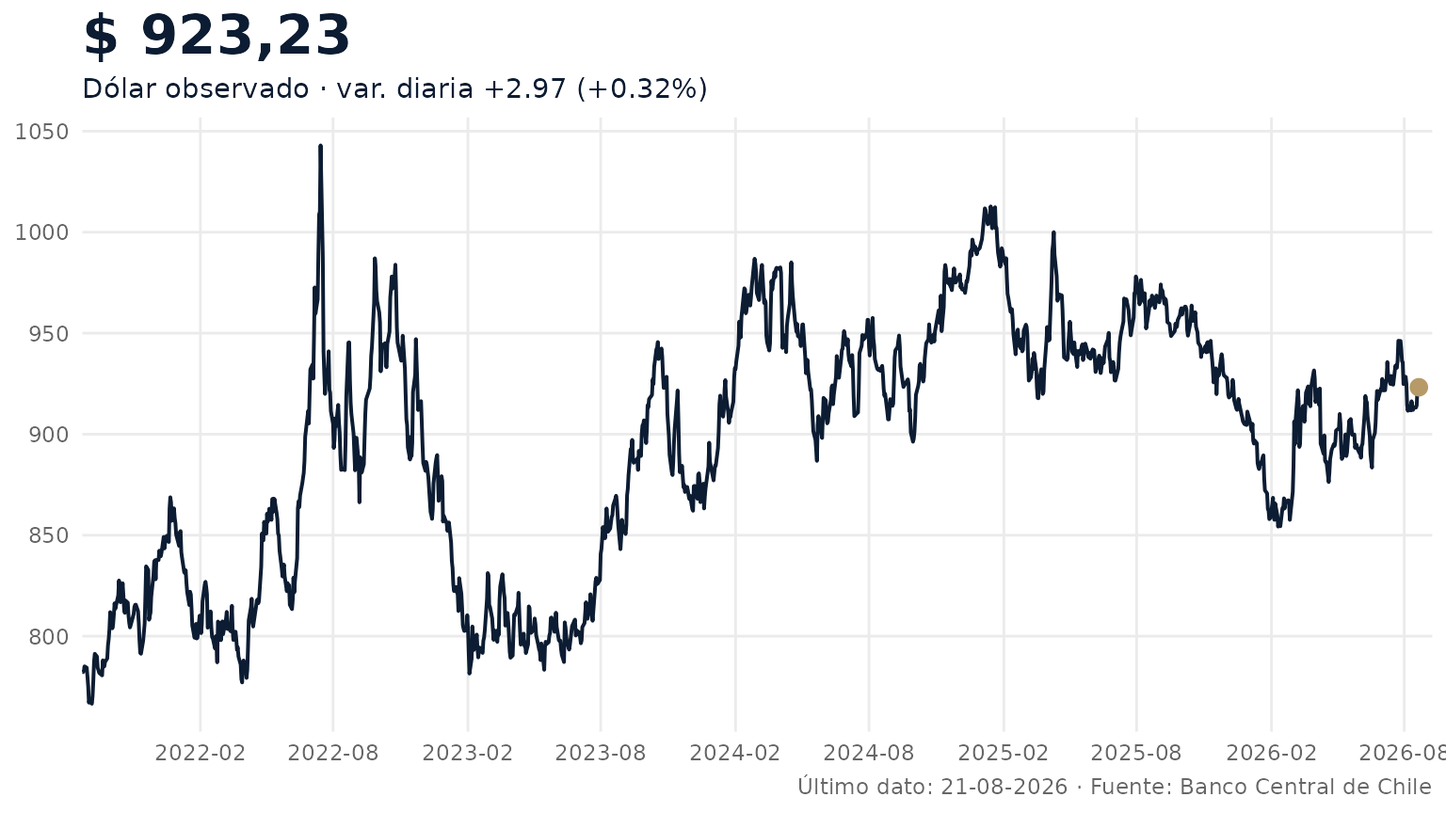
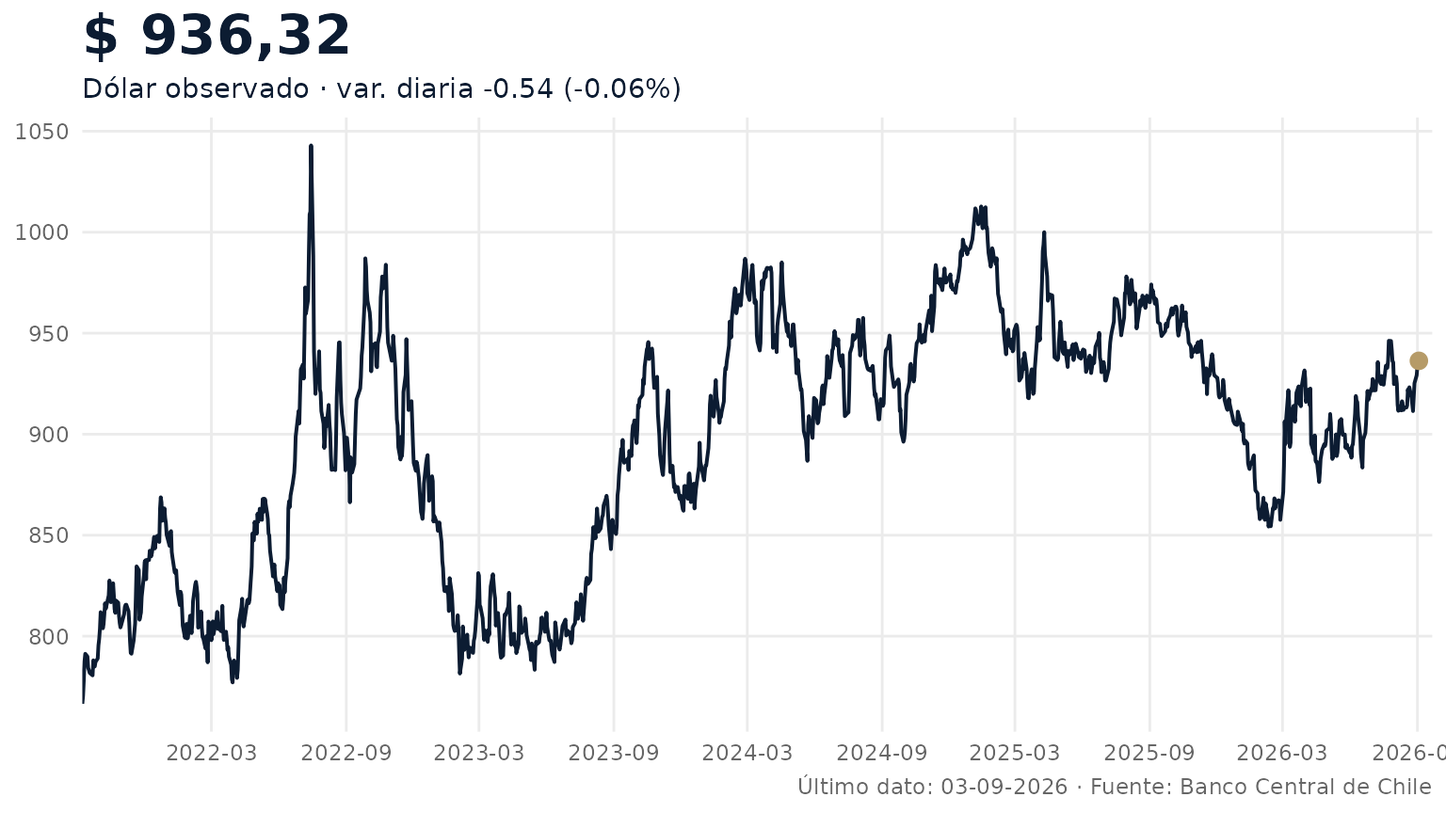
Built site for bcchr@0.1.0.9000: 7c481ce

diff --git a/news/index.html b/news/index.html
@@ -1,5 +1,10 @@
 <!DOCTYPE html>
-<!-- Generated by pkgdown: do not edit by hand --><html lang="es"><head><meta http-equiv="Content-Type" content="text/html; charset=UTF-8"><meta charset="utf-8"><meta http-equiv="X-UA-Compatible" content="IE=edge"><meta name="viewport" content="width=device-width, initial-scale=1, shrink-to-fit=no"><title>Registro de cambios • bcchr</title><script src="../deps/jquery-3.6.0/jquery-3.6.0.min.js"></script><meta name="viewport" content="width=device-width, initial-scale=1, shrink-to-fit=no"><link href="../deps/bootstrap-5.3.8/bootstrap.min.css" rel="stylesheet"><script src="../deps/bootstrap-5.3.8/bootstrap.bundle.min.js"></script><link href="../deps/IBM_Plex_Sans-0.4.10/font.css" rel="stylesheet"><link href="../deps/Fira_Mono-0.4.10/font.css" rel="stylesheet"><link href="../deps/font-awesome-6.5.2/css/all.min.css" rel="stylesheet"><link href="../deps/font-awesome-6.5.2/css/v4-shims.min.css" rel="stylesheet"><script src="../deps/headroom-0.11.0/headroom.min.js"></script><script src="../deps/headroom-0.11.0/jQuery.headroom.min.js"></script><script src="../deps/bootstrap-toc-1.0.1/bootstrap-toc.min.js"></script><script src="../deps/clipboard.js-2.0.11/clipboard.min.js"></script><script src="../deps/search-1.0.0/autocomplete.jquery.min.js"></script><script src="../deps/search-1.0.0/fuse.min.js"></script><script src="../deps/search-1.0.0/mark.min.js"></script><!-- pkgdown --><script src="../pkgdown.js"></script><meta property="og:title" content="Registro de cambios"></head><body>
+<!-- Generated by pkgdown: do not edit by hand --><html lang="es"><head><meta http-equiv="Content-Type" content="text/html; charset=UTF-8"><meta charset="utf-8"><meta http-equiv="X-UA-Compatible" content="IE=edge"><meta name="viewport" content="width=device-width, initial-scale=1, shrink-to-fit=no"><title>Registro de cambios • bcchr</title><script src="../deps/jquery-3.6.0/jquery-3.6.0.min.js"></script><meta name="viewport" content="width=device-width, initial-scale=1, shrink-to-fit=no"><link href="../deps/bootstrap-5.3.8/bootstrap.min.css" rel="stylesheet"><script src="../deps/bootstrap-5.3.8/bootstrap.bundle.min.js"></script><link href="../deps/IBM_Plex_Sans-0.4.10/font.css" rel="stylesheet"><link href="../deps/Fira_Mono-0.4.10/font.css" rel="stylesheet"><link href="../deps/font-awesome-6.5.2/css/all.min.css" rel="stylesheet"><link href="../deps/font-awesome-6.5.2/css/v4-shims.min.css" rel="stylesheet"><script src="../deps/headroom-0.11.0/headroom.min.js"></script><script src="../deps/headroom-0.11.0/jQuery.headroom.min.js"></script><script src="../deps/bootstrap-toc-1.0.1/bootstrap-toc.min.js"></script><script src="../deps/clipboard.js-2.0.11/clipboard.min.js"></script><script src="../deps/search-1.0.0/autocomplete.jquery.min.js"></script><script src="../deps/search-1.0.0/fuse.min.js"></script><script src="../deps/search-1.0.0/mark.min.js"></script><!-- pkgdown --><script src="../pkgdown.js"></script><meta property="og:title" content="Registro de cambios"><!-- Google tag (gtag.js) --><script async src="https://www.googletagmanager.com/gtag/js?id=G-ECZ9XLT78C"></script><script>
+  window.dataLayer = window.dataLayer || [];
+  function gtag(){dataLayer.push(arguments);}
+  gtag('js', new Date());
+  gtag('config', 'G-ECZ9XLT78C');
+</script></head><body>
     <a href="#main" class="visually-hidden-focusable">Ir al contenido</a>
 
 

diff --git a/reference/index.html b/reference/index.html
@@ -1,5 +1,10 @@
 <!DOCTYPE html>
-<!-- Generated by pkgdown: do not edit by hand --><html lang="es"><head><meta http-equiv="Content-Type" content="text/html; charset=UTF-8"><meta charset="utf-8"><meta http-equiv="X-UA-Compatible" content="IE=edge"><meta name="viewport" content="width=device-width, initial-scale=1, shrink-to-fit=no"><title>Índice del paquete • bcchr</title><script src="../deps/jquery-3.6.0/jquery-3.6.0.min.js"></script><meta name="viewport" content="width=device-width, initial-scale=1, shrink-to-fit=no"><link href="../deps/bootstrap-5.3.8/bootstrap.min.css" rel="stylesheet"><script src="../deps/bootstrap-5.3.8/bootstrap.bundle.min.js"></script><link href="../deps/IBM_Plex_Sans-0.4.10/font.css" rel="stylesheet"><link href="../deps/Fira_Mono-0.4.10/font.css" rel="stylesheet"><link href="../deps/font-awesome-6.5.2/css/all.min.css" rel="stylesheet"><link href="../deps/font-awesome-6.5.2/css/v4-shims.min.css" rel="stylesheet"><script src="../deps/headroom-0.11.0/headroom.min.js"></script><script src="../deps/headroom-0.11.0/jQuery.headroom.min.js"></script><script src="../deps/bootstrap-toc-1.0.1/bootstrap-toc.min.js"></script><script src="../deps/clipboard.js-2.0.11/clipboard.min.js"></script><script src="../deps/search-1.0.0/autocomplete.jquery.min.js"></script><script src="../deps/search-1.0.0/fuse.min.js"></script><script src="../deps/search-1.0.0/mark.min.js"></script><!-- pkgdown --><script src="../pkgdown.js"></script><meta property="og:title" content="Índice del paquete"></head><body>
+<!-- Generated by pkgdown: do not edit by hand --><html lang="es"><head><meta http-equiv="Content-Type" content="text/html; charset=UTF-8"><meta charset="utf-8"><meta http-equiv="X-UA-Compatible" content="IE=edge"><meta name="viewport" content="width=device-width, initial-scale=1, shrink-to-fit=no"><title>Índice del paquete • bcchr</title><script src="../deps/jquery-3.6.0/jquery-3.6.0.min.js"></script><meta name="viewport" content="width=device-width, initial-scale=1, shrink-to-fit=no"><link href="../deps/bootstrap-5.3.8/bootstrap.min.css" rel="stylesheet"><script src="../deps/bootstrap-5.3.8/bootstrap.bundle.min.js"></script><link href="../deps/IBM_Plex_Sans-0.4.10/font.css" rel="stylesheet"><link href="../deps/Fira_Mono-0.4.10/font.css" rel="stylesheet"><link href="../deps/font-awesome-6.5.2/css/all.min.css" rel="stylesheet"><link href="../deps/font-awesome-6.5.2/css/v4-shims.min.css" rel="stylesheet"><script src="../deps/headroom-0.11.0/headroom.min.js"></script><script src="../deps/headroom-0.11.0/jQuery.headroom.min.js"></script><script src="../deps/bootstrap-toc-1.0.1/bootstrap-toc.min.js"></script><script src="../deps/clipboard.js-2.0.11/clipboard.min.js"></script><script src="../deps/search-1.0.0/autocomplete.jquery.min.js"></script><script src="../deps/search-1.0.0/fuse.min.js"></script><script src="../deps/search-1.0.0/mark.min.js"></script><!-- pkgdown --><script src="../pkgdown.js"></script><meta property="og:title" content="Índice del paquete"><!-- Google tag (gtag.js) --><script async src="https://www.googletagmanager.com/gtag/js?id=G-ECZ9XLT78C"></script><script>
+  window.dataLayer = window.dataLayer || [];
+  function gtag(){dataLayer.push(arguments);}
+  gtag('js', new Date());
+  gtag('config', 'G-ECZ9XLT78C');
+</script></head><body>
     <a href="#main" class="visually-hidden-focusable">Ir al contenido</a>
 
 

diff --git a/articles/index.html b/articles/index.html
@@ -1,5 +1,10 @@
 <!DOCTYPE html>
-<!-- Generated by pkgdown: do not edit by hand --><html lang="es"><head><meta http-equiv="Content-Type" content="text/html; charset=UTF-8"><meta charset="utf-8"><meta http-equiv="X-UA-Compatible" content="IE=edge"><meta name="viewport" content="width=device-width, initial-scale=1, shrink-to-fit=no"><title>Artículos • bcchr</title><script src="../deps/jquery-3.6.0/jquery-3.6.0.min.js"></script><meta name="viewport" content="width=device-width, initial-scale=1, shrink-to-fit=no"><link href="../deps/bootstrap-5.3.8/bootstrap.min.css" rel="stylesheet"><script src="../deps/bootstrap-5.3.8/bootstrap.bundle.min.js"></script><link href="../deps/IBM_Plex_Sans-0.4.10/font.css" rel="stylesheet"><link href="../deps/Fira_Mono-0.4.10/font.css" rel="stylesheet"><link href="../deps/font-awesome-6.5.2/css/all.min.css" rel="stylesheet"><link href="../deps/font-awesome-6.5.2/css/v4-shims.min.css" rel="stylesheet"><script src="../deps/headroom-0.11.0/headroom.min.js"></script><script src="../deps/headroom-0.11.0/jQuery.headroom.min.js"></script><script src="../deps/bootstrap-toc-1.0.1/bootstrap-toc.min.js"></script><script src="../deps/clipboard.js-2.0.11/clipboard.min.js"></script><script src="../deps/search-1.0.0/autocomplete.jquery.min.js"></script><script src="../deps/search-1.0.0/fuse.min.js"></script><script src="../deps/search-1.0.0/mark.min.js"></script><!-- pkgdown --><script src="../pkgdown.js"></script><meta property="og:title" content="Artículos"></head><body>
+<!-- Generated by pkgdown: do not edit by hand --><html lang="es"><head><meta http-equiv="Content-Type" content="text/html; charset=UTF-8"><meta charset="utf-8"><meta http-equiv="X-UA-Compatible" content="IE=edge"><meta name="viewport" content="width=device-width, initial-scale=1, shrink-to-fit=no"><title>Artículos • bcchr</title><script src="../deps/jquery-3.6.0/jquery-3.6.0.min.js"></script><meta name="viewport" content="width=device-width, initial-scale=1, shrink-to-fit=no"><link href="../deps/bootstrap-5.3.8/bootstrap.min.css" rel="stylesheet"><script src="../deps/bootstrap-5.3.8/bootstrap.bundle.min.js"></script><link href="../deps/IBM_Plex_Sans-0.4.10/font.css" rel="stylesheet"><link href="../deps/Fira_Mono-0.4.10/font.css" rel="stylesheet"><link href="../deps/font-awesome-6.5.2/css/all.min.css" rel="stylesheet"><link href="../deps/font-awesome-6.5.2/css/v4-shims.min.css" rel="stylesheet"><script src="../deps/headroom-0.11.0/headroom.min.js"></script><script src="../deps/headroom-0.11.0/jQuery.headroom.min.js"></script><script src="../deps/bootstrap-toc-1.0.1/bootstrap-toc.min.js"></script><script src="../deps/clipboard.js-2.0.11/clipboard.min.js"></script><script src="../deps/search-1.0.0/autocomplete.jquery.min.js"></script><script src="../deps/search-1.0.0/fuse.min.js"></script><script src="../deps/search-1.0.0/mark.min.js"></script><!-- pkgdown --><script src="../pkgdown.js"></script><meta property="og:title" content="Artículos"><!-- Google tag (gtag.js) --><script async src="https://www.googletagmanager.com/gtag/js?id=G-ECZ9XLT78C"></script><script>
+  window.dataLayer = window.dataLayer || [];
+  function gtag(){dataLayer.push(arguments);}
+  gtag('js', new Date());
+  gtag('config', 'G-ECZ9XLT78C');
+</script></head><body>
     <a href="#main" class="visually-hidden-focusable">Ir al contenido</a>
 
 

diff --git a/authors.html b/authors.html
@@ -1,5 +1,10 @@
 <!DOCTYPE html>
-<!-- Generated by pkgdown: do not edit by hand --><html lang="es"><head><meta http-equiv="Content-Type" content="text/html; charset=UTF-8"><meta charset="utf-8"><meta http-equiv="X-UA-Compatible" content="IE=edge"><meta name="viewport" content="width=device-width, initial-scale=1, shrink-to-fit=no"><title>Autores y Citas • bcchr</title><script src="deps/jquery-3.6.0/jquery-3.6.0.min.js"></script><meta name="viewport" content="width=device-width, initial-scale=1, shrink-to-fit=no"><link href="deps/bootstrap-5.3.8/bootstrap.min.css" rel="stylesheet"><script src="deps/bootstrap-5.3.8/bootstrap.bundle.min.js"></script><link href="deps/IBM_Plex_Sans-0.4.10/font.css" rel="stylesheet"><link href="deps/Fira_Mono-0.4.10/font.css" rel="stylesheet"><link href="deps/font-awesome-6.5.2/css/all.min.css" rel="stylesheet"><link href="deps/font-awesome-6.5.2/css/v4-shims.min.css" rel="stylesheet"><script src="deps/headroom-0.11.0/headroom.min.js"></script><script src="deps/headroom-0.11.0/jQuery.headroom.min.js"></script><script src="deps/bootstrap-toc-1.0.1/bootstrap-toc.min.js"></script><script src="deps/clipboard.js-2.0.11/clipboard.min.js"></script><script src="deps/search-1.0.0/autocomplete.jquery.min.js"></script><script src="deps/search-1.0.0/fuse.min.js"></script><script src="deps/search-1.0.0/mark.min.js"></script><!-- pkgdown --><script src="pkgdown.js"></script><meta property="og:title" content="Autores y Citas"></head><body>
+<!-- Generated by pkgdown: do not edit by hand --><html lang="es"><head><meta http-equiv="Content-Type" content="text/html; charset=UTF-8"><meta charset="utf-8"><meta http-equiv="X-UA-Compatible" content="IE=edge"><meta name="viewport" content="width=device-width, initial-scale=1, shrink-to-fit=no"><title>Autores y Citas • bcchr</title><script src="deps/jquery-3.6.0/jquery-3.6.0.min.js"></script><meta name="viewport" content="width=device-width, initial-scale=1, shrink-to-fit=no"><link href="deps/bootstrap-5.3.8/bootstrap.min.css" rel="stylesheet"><script src="deps/bootstrap-5.3.8/bootstrap.bundle.min.js"></script><link href="deps/IBM_Plex_Sans-0.4.10/font.css" rel="stylesheet"><link href="deps/Fira_Mono-0.4.10/font.css" rel="stylesheet"><link href="deps/font-awesome-6.5.2/css/all.min.css" rel="stylesheet"><link href="deps/font-awesome-6.5.2/css/v4-shims.min.css" rel="stylesheet"><script src="deps/headroom-0.11.0/headroom.min.js"></script><script src="deps/headroom-0.11.0/jQuery.headroom.min.js"></script><script src="deps/bootstrap-toc-1.0.1/bootstrap-toc.min.js"></script><script src="deps/clipboard.js-2.0.11/clipboard.min.js"></script><script src="deps/search-1.0.0/autocomplete.jquery.min.js"></script><script src="deps/search-1.0.0/fuse.min.js"></script><script src="deps/search-1.0.0/mark.min.js"></script><!-- pkgdown --><script src="pkgdown.js"></script><meta property="og:title" content="Autores y Citas"><!-- Google tag (gtag.js) --><script async src="https://www.googletagmanager.com/gtag/js?id=G-ECZ9XLT78C"></script><script>
+  window.dataLayer = window.dataLayer || [];
+  function gtag(){dataLayer.push(arguments);}
+  gtag('js', new Date());
+  gtag('config', 'G-ECZ9XLT78C');
+</script></head><body>
     <a href="#main" class="visually-hidden-focusable">Ir al contenido</a>
 
 

diff --git a/LICENSE.html b/LICENSE.html
@@ -1,5 +1,10 @@
 <!DOCTYPE html>
-<!-- Generated by pkgdown: do not edit by hand --><html lang="es"><head><meta http-equiv="Content-Type" content="text/html; charset=UTF-8"><meta charset="utf-8"><meta http-equiv="X-UA-Compatible" content="IE=edge"><meta name="viewport" content="width=device-width, initial-scale=1, shrink-to-fit=no"><title>MIT License • bcchr</title><script src="deps/jquery-3.6.0/jquery-3.6.0.min.js"></script><meta name="viewport" content="width=device-width, initial-scale=1, shrink-to-fit=no"><link href="deps/bootstrap-5.3.8/bootstrap.min.css" rel="stylesheet"><script src="deps/bootstrap-5.3.8/bootstrap.bundle.min.js"></script><link href="deps/IBM_Plex_Sans-0.4.10/font.css" rel="stylesheet"><link href="deps/Fira_Mono-0.4.10/font.css" rel="stylesheet"><link href="deps/font-awesome-6.5.2/css/all.min.css" rel="stylesheet"><link href="deps/font-awesome-6.5.2/css/v4-shims.min.css" rel="stylesheet"><script src="deps/headroom-0.11.0/headroom.min.js"></script><script src="deps/headroom-0.11.0/jQuery.headroom.min.js"></script><script src="deps/bootstrap-toc-1.0.1/bootstrap-toc.min.js"></script><script src="deps/clipboard.js-2.0.11/clipboard.min.js"></script><script src="deps/search-1.0.0/autocomplete.jquery.min.js"></script><script src="deps/search-1.0.0/fuse.min.js"></script><script src="deps/search-1.0.0/mark.min.js"></script><!-- pkgdown --><script src="pkgdown.js"></script><meta property="og:title" content="MIT License"></head><body>
+<!-- Generated by pkgdown: do not edit by hand --><html lang="es"><head><meta http-equiv="Content-Type" content="text/html; charset=UTF-8"><meta charset="utf-8"><meta http-equiv="X-UA-Compatible" content="IE=edge"><meta name="viewport" content="width=device-width, initial-scale=1, shrink-to-fit=no"><title>MIT License • bcchr</title><script src="deps/jquery-3.6.0/jquery-3.6.0.min.js"></script><meta name="viewport" content="width=device-width, initial-scale=1, shrink-to-fit=no"><link href="deps/bootstrap-5.3.8/bootstrap.min.css" rel="stylesheet"><script src="deps/bootstrap-5.3.8/bootstrap.bundle.min.js"></script><link href="deps/IBM_Plex_Sans-0.4.10/font.css" rel="stylesheet"><link href="deps/Fira_Mono-0.4.10/font.css" rel="stylesheet"><link href="deps/font-awesome-6.5.2/css/all.min.css" rel="stylesheet"><link href="deps/font-awesome-6.5.2/css/v4-shims.min.css" rel="stylesheet"><script src="deps/headroom-0.11.0/headroom.min.js"></script><script src="deps/headroom-0.11.0/jQuery.headroom.min.js"></script><script src="deps/bootstrap-toc-1.0.1/bootstrap-toc.min.js"></script><script src="deps/clipboard.js-2.0.11/clipboard.min.js"></script><script src="deps/search-1.0.0/autocomplete.jquery.min.js"></script><script src="deps/search-1.0.0/fuse.min.js"></script><script src="deps/search-1.0.0/mark.min.js"></script><!-- pkgdown --><script src="pkgdown.js"></script><meta property="og:title" content="MIT License"><!-- Google tag (gtag.js) --><script async src="https://www.googletagmanager.com/gtag/js?id=G-ECZ9XLT78C"></script><script>
+  window.dataLayer = window.dataLayer || [];
+  function gtag(){dataLayer.push(arguments);}
+  gtag('js', new Date());
+  gtag('config', 'G-ECZ9XLT78C');
+</script></head><body>
     <a href="#main" class="visually-hidden-focusable">Ir al contenido</a>
 
 

diff --git a/LICENSE-text.html b/LICENSE-text.html
@@ -1,5 +1,10 @@
 <!DOCTYPE html>
-<!-- Generated by pkgdown: do not edit by hand --><html lang="es"><head><meta http-equiv="Content-Type" content="text/html; charset=UTF-8"><meta charset="utf-8"><meta http-equiv="X-UA-Compatible" content="IE=edge"><meta name="viewport" content="width=device-width, initial-scale=1, shrink-to-fit=no"><title>Licencia • bcchr</title><script src="deps/jquery-3.6.0/jquery-3.6.0.min.js"></script><meta name="viewport" content="width=device-width, initial-scale=1, shrink-to-fit=no"><link href="deps/bootstrap-5.3.8/bootstrap.min.css" rel="stylesheet"><script src="deps/bootstrap-5.3.8/bootstrap.bundle.min.js"></script><link href="deps/IBM_Plex_Sans-0.4.10/font.css" rel="stylesheet"><link href="deps/Fira_Mono-0.4.10/font.css" rel="stylesheet"><link href="deps/font-awesome-6.5.2/css/all.min.css" rel="stylesheet"><link href="deps/font-awesome-6.5.2/css/v4-shims.min.css" rel="stylesheet"><script src="deps/headroom-0.11.0/headroom.min.js"></script><script src="deps/headroom-0.11.0/jQuery.headroom.min.js"></script><script src="deps/bootstrap-toc-1.0.1/bootstrap-toc.min.js"></script><script src="deps/clipboard.js-2.0.11/clipboard.min.js"></script><script src="deps/search-1.0.0/autocomplete.jquery.min.js"></script><script src="deps/search-1.0.0/fuse.min.js"></script><script src="deps/search-1.0.0/mark.min.js"></script><!-- pkgdown --><script src="pkgdown.js"></script><meta property="og:title" content="Licencia"></head><body>
+<!-- Generated by pkgdown: do not edit by hand --><html lang="es"><head><meta http-equiv="Content-Type" content="text/html; charset=UTF-8"><meta charset="utf-8"><meta http-equiv="X-UA-Compatible" content="IE=edge"><meta name="viewport" content="width=device-width, initial-scale=1, shrink-to-fit=no"><title>Licencia • bcchr</title><script src="deps/jquery-3.6.0/jquery-3.6.0.min.js"></script><meta name="viewport" content="width=device-width, initial-scale=1, shrink-to-fit=no"><link href="deps/bootstrap-5.3.8/bootstrap.min.css" rel="stylesheet"><script src="deps/bootstrap-5.3.8/bootstrap.bundle.min.js"></script><link href="deps/IBM_Plex_Sans-0.4.10/font.css" rel="stylesheet"><link href="deps/Fira_Mono-0.4.10/font.css" rel="stylesheet"><link href="deps/font-awesome-6.5.2/css/all.min.css" rel="stylesheet"><link href="deps/font-awesome-6.5.2/css/v4-shims.min.css" rel="stylesheet"><script src="deps/headroom-0.11.0/headroom.min.js"></script><script src="deps/headroom-0.11.0/jQuery.headroom.min.js"></script><script src="deps/bootstrap-toc-1.0.1/bootstrap-toc.min.js"></script><script src="deps/clipboard.js-2.0.11/clipboard.min.js"></script><script src="deps/search-1.0.0/autocomplete.jquery.min.js"></script><script src="deps/search-1.0.0/fuse.min.js"></script><script src="deps/search-1.0.0/mark.min.js"></script><!-- pkgdown --><script src="pkgdown.js"></script><meta property="og:title" content="Licencia"><!-- Google tag (gtag.js) --><script async src="https://www.googletagmanager.com/gtag/js?id=G-ECZ9XLT78C"></script><script>
+  window.dataLayer = window.dataLayer || [];
+  function gtag(){dataLayer.push(arguments);}
+  gtag('js', new Date());
+  gtag('config', 'G-ECZ9XLT78C');
+</script></head><body>
     <a href="#main" class="visually-hidden-focusable">Ir al contenido</a>
 
 

diff --git a/articles/ggplot.html b/articles/ggplot.html
@@ -13,6 +13,12 @@
 <link href="../deps/font-awesome-6.5.2/css/all.min.css" rel="stylesheet">
 <link href="../deps/font-awesome-6.5.2/css/v4-shims.min.css" rel="stylesheet">
 <script src="../deps/headroom-0.11.0/headroom.min.js"></script><script src="../deps/headroom-0.11.0/jQuery.headroom.min.js"></script><script src="../deps/bootstrap-toc-1.0.1/bootstrap-toc.min.js"></script><script src="../deps/clipboard.js-2.0.11/clipboard.min.js"></script><script src="../deps/search-1.0.0/autocomplete.jquery.min.js"></script><script src="../deps/search-1.0.0/fuse.min.js"></script><script src="../deps/search-1.0.0/mark.min.js"></script><!-- pkgdown --><script src="../pkgdown.js"></script><meta property="og:title" content="Visualización con ggplot2">
+<!-- Google tag (gtag.js) --><script async src="https://www.googletagmanager.com/gtag/js?id=G-ECZ9XLT78C"></script><script>
+  window.dataLayer = window.dataLayer || [];
+  function gtag(){dataLayer.push(arguments);}
+  gtag('js', new Date());
+  gtag('config', 'G-ECZ9XLT78C');
+</script>
 </head>
 <body>
     <a href="#main" class="visually-hidden-focusable">Ir al contenido</a>
@@ -94,12 +100,12 @@ la serie es exacto; cuando no lo conozca puede encontrar candidatos con
 <span><span class="co">#&gt; <span style="color: #949494;"># A tibble: 6 × 2</span></span></span>
 <span><span class="co">#&gt;   date       value</span></span>
 <span><span class="co">#&gt;   <span style="color: #949494; font-style: italic;">&lt;date&gt;</span>     <span style="color: #949494; font-style: italic;">&lt;dbl&gt;</span></span></span>
-<span><span class="co">#&gt; <span style="color: #BCBCBC;">1</span> 2026-08-14  913.</span></span>
-<span><span class="co">#&gt; <span style="color: #BCBCBC;">2</span> 2026-08-17  913.</span></span>
-<span><span class="co">#&gt; <span style="color: #BCBCBC;">3</span> 2026-08-18  914.</span></span>
-<span><span class="co">#&gt; <span style="color: #BCBCBC;">4</span> 2026-08-19  922.</span></span>
-<span><span class="co">#&gt; <span style="color: #BCBCBC;">5</span> 2026-08-20  920.</span></span>
-<span><span class="co">#&gt; <span style="color: #BCBCBC;">6</span> 2026-08-21  923.</span></span></code></pre></div>
+<span><span class="co">#&gt; <span style="color: #BCBCBC;">1</span> 2026-08-27  918.</span></span>
+<span><span class="co">#&gt; <span style="color: #BCBCBC;">2</span> 2026-08-28  925.</span></span>
+<span><span class="co">#&gt; <span style="color: #BCBCBC;">3</span> 2026-08-31  929.</span></span>
+<span><span class="co">#&gt; <span style="color: #BCBCBC;">4</span> 2026-09-01  933.</span></span>
+<span><span class="co">#&gt; <span style="color: #BCBCBC;">5</span> 2026-09-02  937.</span></span>
+<span><span class="co">#&gt; <span style="color: #BCBCBC;">6</span> 2026-09-03  936.</span></span></code></pre></div>
 </div>
 <div class="section level2">
 <h2 id="la-opción-rápida">La opción rápida<a class="anchor" aria-label="anchor" href="#la-opci%C3%B3n-r%C3%A1pida"></a>

diff --git a/reference/bcch_SearchSeries.html b/reference/bcch_SearchSeries.html
@@ -1,7 +1,12 @@
 <!DOCTYPE html>
 <!-- Generated by pkgdown: do not edit by hand --><html lang="es"><head><meta http-equiv="Content-Type" content="text/html; charset=UTF-8"><meta charset="utf-8"><meta http-equiv="X-UA-Compatible" content="IE=edge"><meta name="viewport" content="width=device-width, initial-scale=1, shrink-to-fit=no"><title>Obtener las series disponibles por frecuencia — bcch_SearchSeries • bcchr</title><script src="../deps/jquery-3.6.0/jquery-3.6.0.min.js"></script><meta name="viewport" content="width=device-width, initial-scale=1, shrink-to-fit=no"><link href="../deps/bootstrap-5.3.8/bootstrap.min.css" rel="stylesheet"><script src="../deps/bootstrap-5.3.8/bootstrap.bundle.min.js"></script><link href="../deps/IBM_Plex_Sans-0.4.10/font.css" rel="stylesheet"><link href="../deps/Fira_Mono-0.4.10/font.css" rel="stylesheet"><link href="../deps/font-awesome-6.5.2/css/all.min.css" rel="stylesheet"><link href="../deps/font-awesome-6.5.2/css/v4-shims.min.css" rel="stylesheet"><script src="../deps/headroom-0.11.0/headroom.min.js"></script><script src="../deps/headroom-0.11.0/jQuery.headroom.min.js"></script><script src="../deps/bootstrap-toc-1.0.1/bootstrap-toc.min.js"></script><script src="../deps/clipboard.js-2.0.11/clipboard.min.js"></script><script src="../deps/search-1.0.0/autocomplete.jquery.min.js"></script><script src="../deps/search-1.0.0/fuse.min.js"></script><script src="../deps/search-1.0.0/mark.min.js"></script><!-- pkgdown --><script src="../pkgdown.js"></script><meta property="og:title" content="Obtener las series disponibles por frecuencia — bcch_SearchSeries"><meta name="description" content="Acceso directo a la operación SearchSeries del API del Banco Central.
 Para la interfaz moderna use metadata() o resolve_series()."><meta property="og:description" content="Acceso directo a la operación SearchSeries del API del Banco Central.
-Para la interfaz moderna use metadata() o resolve_series()."></head><body>
+Para la interfaz moderna use metadata() o resolve_series()."><!-- Google tag (gtag.js) --><script async src="https://www.googletagmanager.com/gtag/js?id=G-ECZ9XLT78C"></script><script>
+  window.dataLayer = window.dataLayer || [];
+  function gtag(){dataLayer.push(arguments);}
+  gtag('js', new Date());
+  gtag('config', 'G-ECZ9XLT78C');
+</script></head><body>
     <a href="#main" class="visually-hidden-focusable">Ir al contenido</a>
 
 

diff --git a/reference/bcch_GetSeries.html b/reference/bcch_GetSeries.html
@@ -1,7 +1,12 @@
 <!DOCTYPE html>
 <!-- Generated by pkgdown: do not edit by hand --><html lang="es"><head><meta http-equiv="Content-Type" content="text/html; charset=UTF-8"><meta charset="utf-8"><meta http-equiv="X-UA-Compatible" content="IE=edge"><meta name="viewport" content="width=device-width, initial-scale=1, shrink-to-fit=no"><title>Obtener los datos de una serie — bcch_GetSeries • bcchr</title><script src="../deps/jquery-3.6.0/jquery-3.6.0.min.js"></script><meta name="viewport" content="width=device-width, initial-scale=1, shrink-to-fit=no"><link href="../deps/bootstrap-5.3.8/bootstrap.min.css" rel="stylesheet"><script src="../deps/bootstrap-5.3.8/bootstrap.bundle.min.js"></script><link href="../deps/IBM_Plex_Sans-0.4.10/font.css" rel="stylesheet"><link href="../deps/Fira_Mono-0.4.10/font.css" rel="stylesheet"><link href="../deps/font-awesome-6.5.2/css/all.min.css" rel="stylesheet"><link href="../deps/font-awesome-6.5.2/css/v4-shims.min.css" rel="stylesheet"><script src="../deps/headroom-0.11.0/headroom.min.js"></script><script src="../deps/headroom-0.11.0/jQuery.headroom.min.js"></script><script src="../deps/bootstrap-toc-1.0.1/bootstrap-toc.min.js"></script><script src="../deps/clipboard.js-2.0.11/clipboard.min.js"></script><script src="../deps/search-1.0.0/autocomplete.jquery.min.js"></script><script src="../deps/search-1.0.0/fuse.min.js"></script><script src="../deps/search-1.0.0/mark.min.js"></script><!-- pkgdown --><script src="../pkgdown.js"></script><meta property="og:title" content="Obtener los datos de una serie — bcch_GetSeries"><meta name="description" content="Acceso directo a la operación GetSeries del API del Banco Central.
 Para la interfaz moderna use get_series()."><meta property="og:description" content="Acceso directo a la operación GetSeries del API del Banco Central.
-Para la interfaz moderna use get_series()."></head><body>
+Para la interfaz moderna use get_series()."><!-- Google tag (gtag.js) --><script async src="https://www.googletagmanager.com/gtag/js?id=G-ECZ9XLT78C"></script><script>
+  window.dataLayer = window.dataLayer || [];
+  function gtag(){dataLayer.push(arguments);}
+  gtag('js', new Date());
+  gtag('config', 'G-ECZ9XLT78C');
+</script></head><body>
     <a href="#main" class="visually-hidden-focusable">Ir al contenido</a>
 
 

diff --git a/404.html b/404.html
@@ -13,6 +13,12 @@
 <link href="https://jkunst.com/bcchr/deps/font-awesome-6.5.2/css/all.min.css" rel="stylesheet">
 <link href="https://jkunst.com/bcchr/deps/font-awesome-6.5.2/css/v4-shims.min.css" rel="stylesheet">
 <script src="https://jkunst.com/bcchr/deps/headroom-0.11.0/headroom.min.js"></script><script src="https://jkunst.com/bcchr/deps/headroom-0.11.0/jQuery.headroom.min.js"></script><script src="https://jkunst.com/bcchr/deps/bootstrap-toc-1.0.1/bootstrap-toc.min.js"></script><script src="https://jkunst.com/bcchr/deps/clipboard.js-2.0.11/clipboard.min.js"></script><script src="https://jkunst.com/bcchr/deps/search-1.0.0/autocomplete.jquery.min.js"></script><script src="https://jkunst.com/bcchr/deps/search-1.0.0/fuse.min.js"></script><script src="https://jkunst.com/bcchr/deps/search-1.0.0/mark.min.js"></script><!-- pkgdown --><script src="https://jkunst.com/bcchr/pkgdown.js"></script><meta property="og:title" content="Página no encontrada (404)">
+<!-- Google tag (gtag.js) --><script async src="https://www.googletagmanager.com/gtag/js?id=G-ECZ9XLT78C"></script><script src="https://jkunst.com/bcchr/NA">
+  window.dataLayer = window.dataLayer || [];
+  function gtag(){dataLayer.push(arguments);}
+  gtag('js', new Date());
+  gtag('config', 'G-ECZ9XLT78C');
+</script>
 </head>
 <body>
     <a href="https://jkunst.com/bcchr/#main" class="visually-hidden-focusable">Ir al contenido</a>

diff --git a/index.html b/index.html
@@ -15,6 +15,12 @@
 <script src="deps/headroom-0.11.0/headroom.min.js"></script><script src="deps/headroom-0.11.0/jQuery.headroom.min.js"></script><script src="deps/bootstrap-toc-1.0.1/bootstrap-toc.min.js"></script><script src="deps/clipboard.js-2.0.11/clipboard.min.js"></script><script src="deps/search-1.0.0/autocomplete.jquery.min.js"></script><script src="deps/search-1.0.0/fuse.min.js"></script><script src="deps/search-1.0.0/mark.min.js"></script><!-- pkgdown --><script src="pkgdown.js"></script><meta property="og:title" content="API para Base de Datos Estadísticos del Banco Central de Chile">
 <meta name="description" content="Paquete para descargar y explorar series del Banco Central de Chile.">
 <meta property="og:description" content="Paquete para descargar y explorar series del Banco Central de Chile.">
+<!-- Google tag (gtag.js) --><script async src="https://www.googletagmanager.com/gtag/js?id=G-ECZ9XLT78C"></script><script>
+  window.dataLayer = window.dataLayer || [];
+  function gtag(){dataLayer.push(arguments);}
+  gtag('js', new Date());
+  gtag('config', 'G-ECZ9XLT78C');
+</script>
 </head>
 <body>
     <a href="#main" class="visually-hidden-focusable">Ir al contenido</a>

diff --git a/reference/resolve_series.html b/reference/resolve_series.html
@@ -9,7 +9,12 @@ por una persona y devuelve las series candidatas. Las busquedas ignoran
 mayusculas y acentos. Cuando una consulta contiene varias palabras, todas
 deben aparecer en alguno de los campos series_id, spanish_title o
 english_title, aunque no sean contiguas ni aparezcan en el mismo campo.
-Esta funcion solo encuentra candidatos; no elige una serie por el usuario."></head><body>
+Esta funcion solo encuentra candidatos; no elige una serie por el usuario."><!-- Google tag (gtag.js) --><script async src="https://www.googletagmanager.com/gtag/js?id=G-ECZ9XLT78C"></script><script>
+  window.dataLayer = window.dataLayer || [];
+  function gtag(){dataLayer.push(arguments);}
+  gtag('js', new Date());
+  gtag('config', 'G-ECZ9XLT78C');
+</script></head><body>
     <a href="#main" class="visually-hidden-focusable">Ir al contenido</a>
 
 
